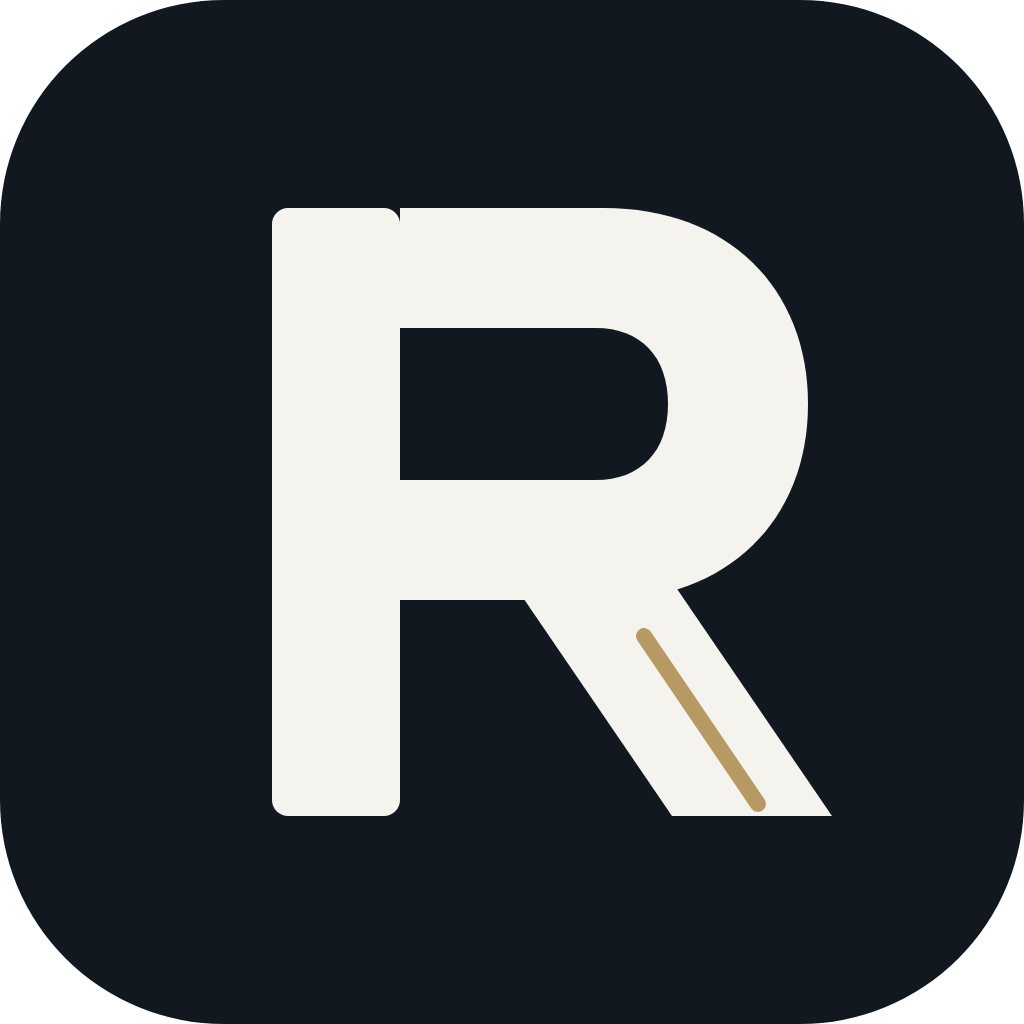
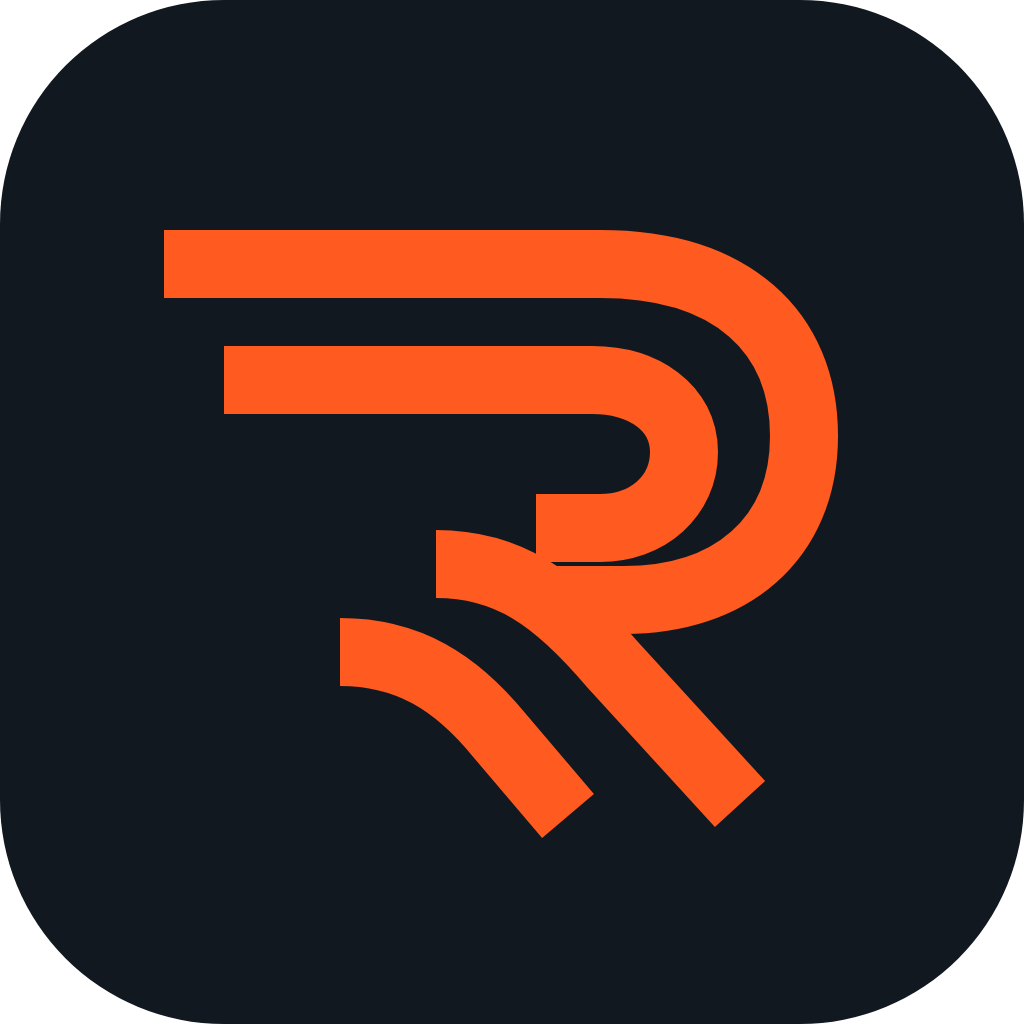
feat(branding): perbarui identitas visual Rawatin ke racing orange

Changed region(s): [[0.1562, 0.1875, 0.8438, 0.8125]]

diff --git a/rawat_motor/lib/core/widgets/rawatin_logo.dart b/rawat_motor/lib/core/widgets/rawatin_logo.dart
@@ -4,11 +4,11 @@ import 'package:flutter/material.dart';
 
 import '../theme/app_theme.dart';
 
-/// Simbol Rawatin: monogram R geometris dengan kaki yang membentuk rute.
+/// Simbol Rawatin: monogram R bergaya racing dengan garis-garis kecepatan.
 ///
 /// Sumber desain ada di `assets/brand/rawatin_logo.svg`. Geometri di
-/// [RawatinLogoPainter] sengaja memakai koordinat 512 yang sama agar logo di
-/// header dan ikon launcher selalu identik.
+/// [RawatinLogoPainter] memakai koordinat kanvas 512 supaya logo UI dan ikon
+/// launcher tetap konsisten.
 class RawatinLogo extends StatelessWidget {
   const RawatinLogo({
     super.key,
@@ -75,84 +75,52 @@ class RawatinLogoPainter extends CustomPainter {
       background,
     );
 
-    final white = Paint()
-      ..color = AppPalette.canvas
-      ..style = PaintingStyle.fill;
+    final orange = Paint()
+      ..color = AppPalette.accent
+      ..style = PaintingStyle.stroke
+      ..strokeWidth = 34
+      ..strokeCap = StrokeCap.butt
+      ..strokeJoin = StrokeJoin.round;
 
     double segment(double start, double end) =>
         ((progress - start) / (end - start)).clamp(0.0, 1.0);
 
-    final stemProgress = segment(0, .32);
-    final bowlProgress = segment(.18, .65);
-    final legProgress = segment(.52, .88);
-    final accentProgress = segment(.70, 1);
+    final topProgress = segment(0, .38);
+    final legProgress = segment(.55, .9);
 
-    // Batang vertikal digambar dari atas ke bawah.
+    // Dua garis cepat membentuk kepala R; clip menjaga animasi intro bertahap.
     canvas.save();
-    canvas.clipRect(Rect.fromLTRB(0, 104, viewBox, 104 + 304 * stemProgress));
-    canvas.drawRRect(
-      RRect.fromRectAndRadius(
-        const Rect.fromLTWH(136, 104, 64, 304),
-        const Radius.circular(8),
-      ),
-      white,
-    );
+    canvas.clipRect(Rect.fromLTRB(0, 0, viewBox * topProgress, viewBox));
+    final topLine = Path()
+      ..moveTo(82, 132)
+      ..lineTo(300, 132)
+      ..cubicTo(366, 132, 402, 166, 402, 218)
+      ..cubicTo(402, 270, 365, 300, 312, 300)
+      ..lineTo(268, 300);
+    canvas.drawPath(topLine, orange);
+    final innerLine = Path()
+      ..moveTo(112, 190)
+      ..lineTo(296, 190)
+      ..cubicTo(322, 190, 342, 204, 342, 226)
+      ..cubicTo(342, 248, 324, 264, 300, 264)
+      ..lineTo(268, 264);
+    canvas.drawPath(innerLine, orange);
     canvas.restore();
 
-    // Mangkuk R terbuka dari kiri ke kanan, seperti garis yang sedang ditarik.
+    // Sepasang garis diagonal menutup monogram seperti kaki huruf R.
     canvas.save();
-    canvas.clipRect(Rect.fromLTRB(0, 0, 200 + 204 * bowlProgress, viewBox));
-    final bowl = Path()
-      ..moveTo(200, 104)
-      ..lineTo(302, 104)
-      ..cubicTo(364, 104, 404, 144, 404, 202)
-      ..cubicTo(404, 260, 364, 300, 302, 300)
-      ..lineTo(200, 300)
-      ..close();
-    canvas.drawPath(bowl, white);
-
-    final hole = Path()
-      ..moveTo(200, 164)
-      ..lineTo(298, 164)
-      ..cubicTo(320, 164, 334, 178, 334, 202)
-      ..cubicTo(334, 226, 320, 240, 298, 240)
-      ..lineTo(200, 240)
-      ..close();
-    canvas.drawPath(
-      hole,
-      Paint()
-        ..color = AppPalette.ink
-        ..style = PaintingStyle.fill,
-    );
+    canvas.clipRect(Rect.fromLTRB(0, 260, viewBox, 260 + 180 * legProgress));
+    final frontLeg = Path()
+      ..moveTo(218, 282)
+      ..cubicTo(254, 282, 278, 299, 306, 332)
+      ..lineTo(370, 402);
+    canvas.drawPath(frontLeg, orange);
+    final rearLeg = Path()
+      ..moveTo(170, 326)
+      ..cubicTo(204, 326, 228, 341, 250, 368)
+      ..lineTo(284, 408);
+    canvas.drawPath(rearLeg, orange);
     canvas.restore();
-
-    // Kaki diagonal R menyusul dari pangkal menuju ujung.
-    canvas.save();
-    canvas.clipRect(Rect.fromLTRB(0, 282, viewBox, 282 + 126 * legProgress));
-    final leg = Path()
-      ..moveTo(250, 282)
-      ..lineTo(330, 282)
-      ..lineTo(416, 408)
-      ..lineTo(336, 408)
-      ..close();
-    canvas.drawPath(leg, white);
-    canvas.restore();
-
-    // Aksen brass mengikuti kaki R sebagai garis penutup.
-    final accentStart = const Offset(322, 318);
-    final accentEnd = Offset.lerp(
-      accentStart,
-      const Offset(379, 402),
-      accentProgress,
-    )!;
-    canvas.drawLine(
-      accentStart,
-      accentEnd,
-      Paint()
-        ..color = AppPalette.accent
-        ..strokeWidth = 8
-        ..strokeCap = StrokeCap.round,
-    );
 
     canvas.restore();
   }

diff --git a/rawat_motor/lib/core/theme/app_tokens.dart b/rawat_motor/lib/core/theme/app_tokens.dart
@@ -6,7 +6,7 @@ import 'package:flutter/material.dart';
 /// Warna status juga tersedia lewat [RawatinColors] agar nanti mudah
 /// ditukar saat dark mode ditambahkan.
 abstract final class AppPalette {
-  // Identitas Rawatin: graphite navy, warm ivory, dan brass yang digunakan hemat.
+  // Identitas Rawatin: graphite navy dan warm ivory dengan racing orange hemat.
   static const ink = Color(0xFF111820);
   static const inkSoft = Color(0xFF35414A);
   static const muted = Color(0xFF737D83);
@@ -19,9 +19,9 @@ abstract final class AppPalette {
   static const primaryBright = Color(0xFF35414A);
   static const primaryDark = Color(0xFF0A1015);
   static const primarySoft = Color(0xFFE8E8E3);
-  static const accent = Color(0xFFB79A63);
-  static const accentSoft = Color(0xFFF1EBDD);
-  static const onAccent = Color(0xFF211B10);
+  static const accent = Color(0xFFFF5A1F);
+  static const accentSoft = Color(0xFFFFE9DF);
+  static const onAccent = Color(0xFFFFFFFF);
 
   // Status semantik: jernih dan berstandar desain modern
   static const safe = Color(0xFF059669);

diff --git a/PROJECT_STATUS.md b/PROJECT_STATUS.md
@@ -127,6 +127,7 @@ Terakhir diperbarui: 10 November 2026
 - Tes widget `AiAssistantPage` ditambahkan di `test/ai_assistant_page_test.dart` (7 tes: header, chip, intro, alur persetujuan + jawaban, rate limit, AI belum dikonfigurasi); `flutter test` penuh lulus 112 tes dan `flutter analyze --no-pub` kembali bersih dari error/warning (11 info lint lama di fitur trips).
 - Penyegaran AI Rawatin (11 November 2026): prompt Gemini diperjelas agar menjawab inti dulu, memakai gaya percakapan ringkas, tetap jujur soal identitas Gemini, dan tidak mengulang anjuran manual tanpa alasan. Pengamanan tambahan melarang klaim kompatibilitas/dukungan pabrikan atau interval coolant tanpa sumber serta instruksi membersihkan, membongkar, melumasi, atau menyetel rem oleh pengguna. Temperatur ditetapkan 0,4 dan output maksimum 450 token. `npm.cmd test` lulus 15/15; Worker live redeploy di `https://rawatin-ai.rawatin-app.workers.dev` versi `b2b6a9a1-da7e-4638-9acd-e72919ec2503`. Uji langsung identitas dan rem berhasil; coolant dijawab dengan kriteria umum tanpa menyebut klaim bawaan pabrikan, tetapi model masih kadang memakai frasa umum yang perlu dipantau.
 - Perbaikan kesinambungan obrolan AI (11 November 2026): prompt kini meminta Gemini membaca pesan terakhir bersama riwayat, menanggapi detail personal yang relevan dengan empati, lalu menanyakan satu klarifikasi berguna bila membantu—tanpa menganggap modifikasi sebagai penyebab gangguan. Panduan keselamatan rem harus tetap diberikan dan tidak boleh digantikan pertanyaan lanjutan. Tes Worker lulus 15/15. Uji live dengan skenario Mio Gear Jodi berhasil menghasilkan pengakuan konteks dan pertanyaan apakah bagian rem ikut dimodifikasi; Worker dideploy ulang ke `https://rawatin-ai.rawatin-app.workers.dev`, versi `4260a4de-1781-4085-b45d-473f27a6369e`.
+- Arah visual logo Rawatin diperbarui (11 November 2026): monogram `R` geometris diganti interpretasi racing dari Image 1 dengan dua garis laju, warna racing orange `#FF5A1F`, dan dasar graphite `#111820`. Token aksen global memakai oranye dengan tint lembut `#FFE9DF`, sementara kanvas, permukaan, dan warna status keselamatan tetap netral/semantik agar aksen premium tidak berlebihan. `RawatinLogoPainter` tetap menjadi sumber tunggal UI dan launcher; SVG sumber serta ikon Android/iOS/Windows dan PNG utama dihasilkan ulang lewat `flutter test tool/generate_icons_test.dart`. `flutter analyze --no-pub` bersih dan `flutter test` lulus 113 tes. Build Windows debug dicoba tetapi gagal karena `rawatin.exe` sedang terkunci oleh aplikasi yang berjalan; jangan hentikan proses pengguna, gunakan Hot Reload/Hot Restart dari sesi VS Code yang aktif.
 
 ## Langkah berikutnya
 
